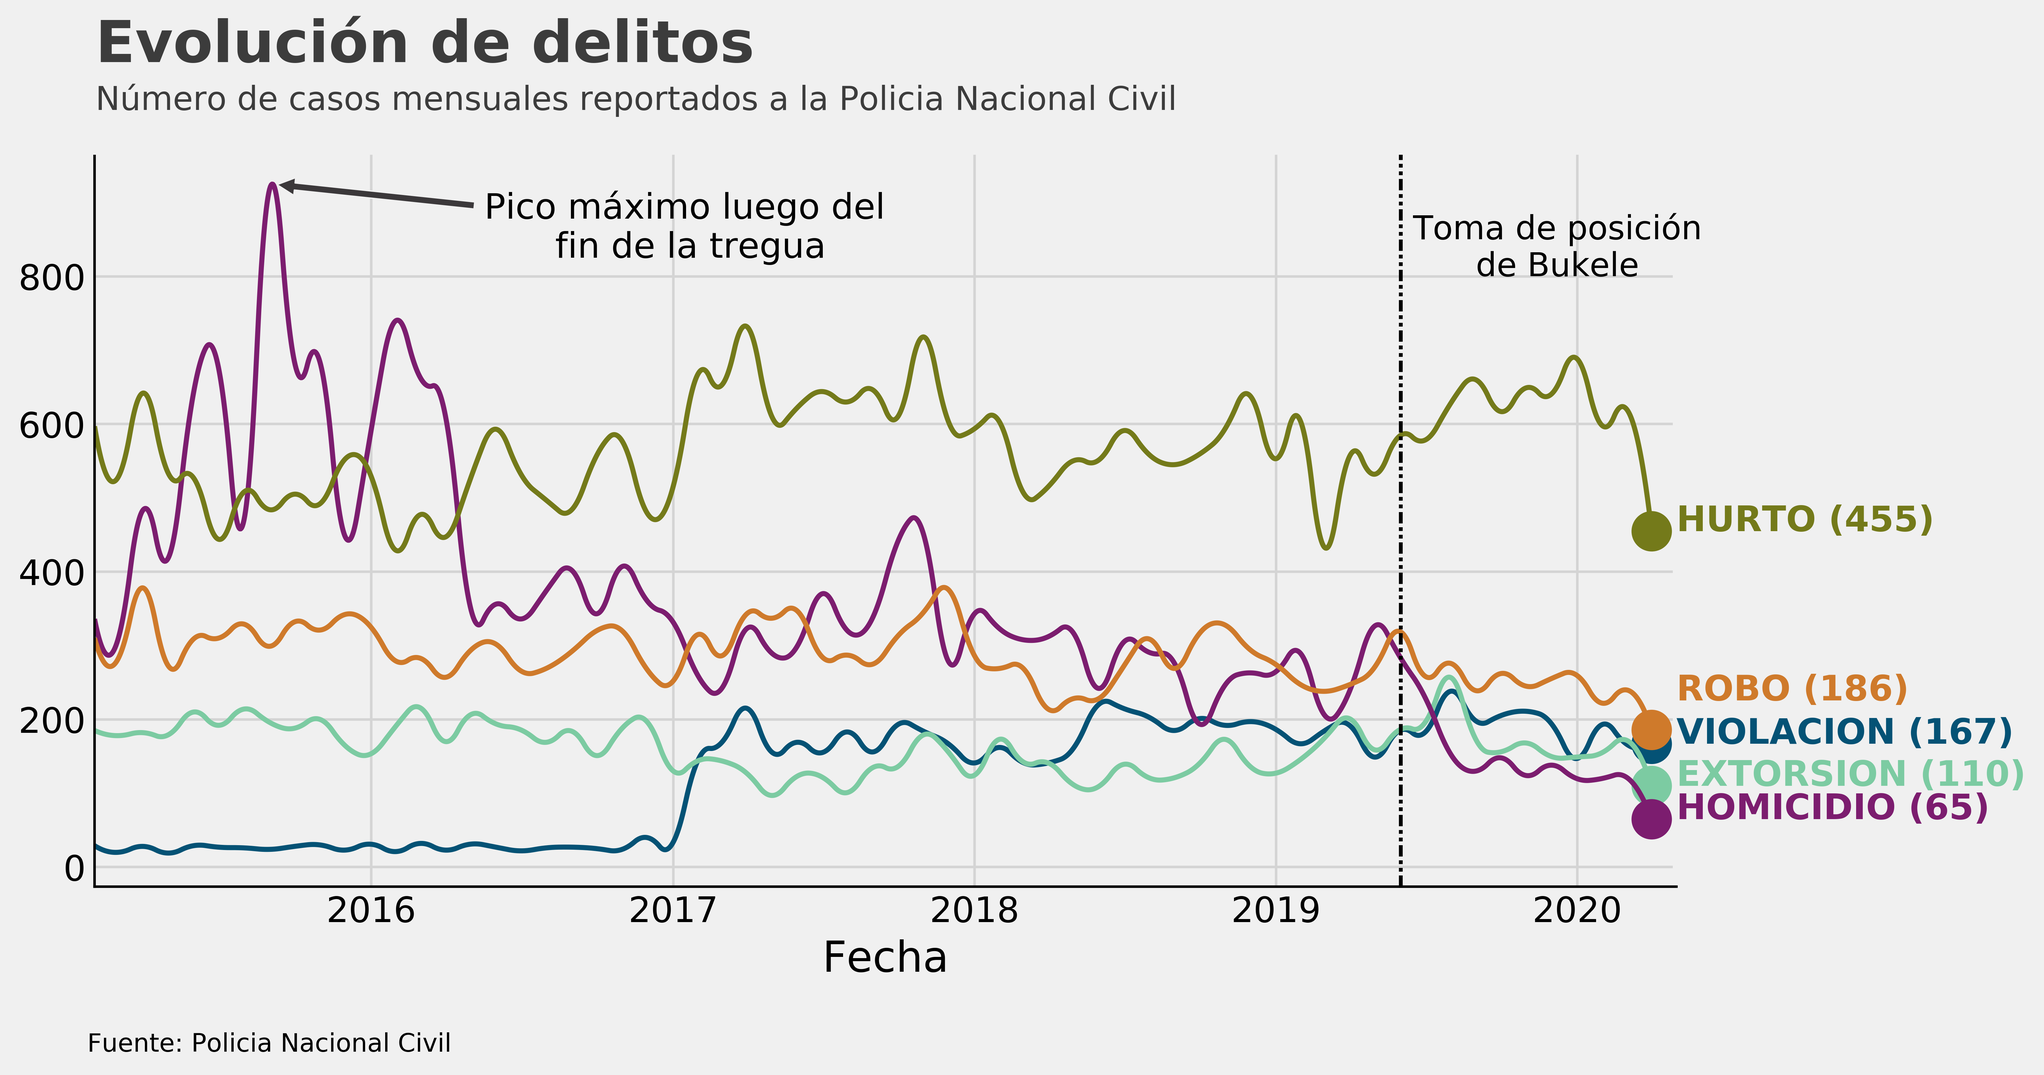
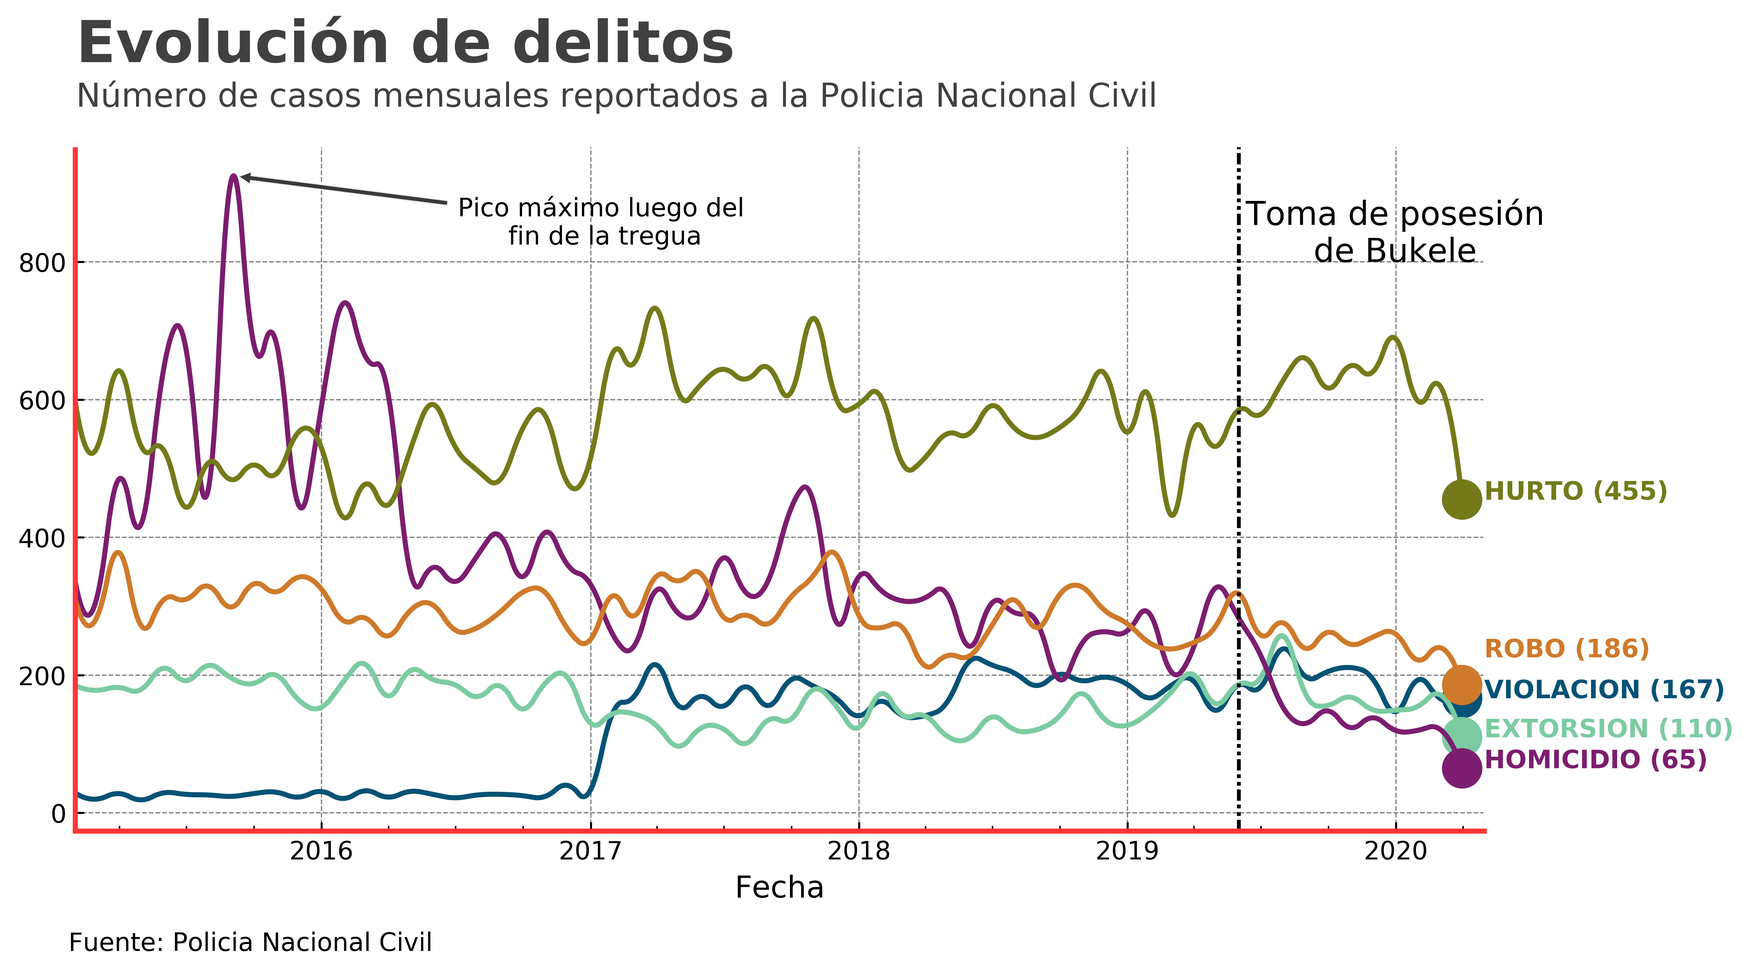
post_7_translated

Changed region(s): [[0.0, 0.1556, 0.9962, 0.9334], [0.0311, 0.0, 0.6538, 0.1245], [0.0311, 0.9645, 0.249, 0.9956]]

diff --git a/_layouts/distill_img_short.html b/_layouts/distill_img_short.html
@@ -1,0 +1,118 @@
+<!DOCTYPE html>
+<html>
+  <head>
+    {% include head.html %}
+    <script src="{{ '/assets/js/distillpub/template.v2.js' | relative_url }}"></script>
+    <script src="{{ '/assets/js/distillpub/transforms.v2.js' | relative_url }}"></script>
+    {% if page._styles %}
+    <style type="text/css">
+      {{ page._styles }}
+    </style>
+    {% endif %}
+
+    <script type='text/javascript' src='https://platform-api.sharethis.com/js/sharethis.js#property=5f1285fa133eda00126e4805&product=sticky-share-buttons&cms=sop' async='async'></script>
+
+  </head>
+
+  
+
+
+  <d-front-matter>
+    <script type="text/json">{
+      "title": "{{ page.title }}",
+      "description": "{{ page.description }}",
+      "published": "{{ page.date | date: "%B %-d, %Y" }}{% if page.author %} • {{ page.author }}{% endif %}{% if page.meta %} • {{ page.meta }}{% endif %}",
+      "authors": [
+        {% for author in page.authors %}
+        {
+          "author": "{{ author.name }}",
+          "authorURL": "{{ author.url }}",
+          "affiliations": [
+            {
+              "name": "{{ author.affiliations.name }}",
+              "url": "{{ author.affiliations.url }}"
+            }
+          ]
+        }{% if forloop.last == false %},{% endif %}
+        {% endfor %}
+      ],
+      "katex": {
+        "delimiters": [
+          {
+            "left": "$",
+            "right": "$",
+            "display": false
+          },
+          {
+            "left": "$$",
+            "right": "$$",
+            "display": true
+          }
+        ]
+      }
+    }</script>
+  </d-front-matter>
+
+  <body class="{% if site.navbar_fixed %}fixed-top-nav{% endif %} {% unless site.footer_fixed %}sticky-bottom-footer{% endunless %}">
+
+    <!-- Header -->
+
+    {% include header.html %}
+
+    <!-- Content -->
+    <d-article>
+        <p><img class="img-fluid" src="{{ site.baseurl }}{{ page.image }}"></p>
+    </d-article>
+    
+
+    <div class="post distill">
+      <div class="text-center">
+        <d-title>
+          <h1 style="font-family: 'Playfair Display SC', serif">{{ page.title }}</h1>
+          <p style = "font-style: italic">{{ page.description }}</p>
+        </d-title>
+      </div>
+
+      <d-byline></d-byline>
+
+      <d-article>
+        {{ content }}
+      </d-article>
+
+      <d-appendix>
+        <d-footnote-list></d-footnote-list>
+        <d-citation-list></d-citation-list>
+      </d-appendix>
+
+    </div>
+
+    <!-- Footer -->
+
+    {% include footer.html %}
+
+  </body>
+
+  {% include hemline.html %}
+
+  <d-bibliography src="{{ page.bibliography | prepend: '/assets/bibliography/' | relative_url }}">
+  </d-bibliography>
+
+  <body class="{% if site.navbar_fixed %}fixed-top-nav{% endif %} {% unless site.footer_fixed %}sticky-bottom-footer{% endunless %}">
+    <d-article>
+      {% if site.disqus_shortname and page.comments %}
+        <div id="disqus_thread"></div>
+        <script type="text/javascript">
+          var disqus_shortname  = '{{ site.disqus_shortname }}';
+          var disqus_identifier = '{{ page.id }}';
+          var disqus_title      = {{ page.title | jsonify }};
+          (function() {
+            var dsq = document.createElement('script'); dsq.type = 'text/javascript'; dsq.async = true;
+            dsq.src = '//' + disqus_shortname + '.disqus.com/embed.js';
+            (document.getElementsByTagName('head')[0] || document.getElementsByTagName('body')[0]).appendChild(dsq);
+          })();
+        </script>
+        <noscript>Please enable JavaScript to view the <a href="http://disqus.com/?ref_noscript">comments powered by Disqus.</a></noscript>
+      {% endif %}
+    </d-article>
+  </body>
+</html>

diff --git a/_sass/_layout.scss b/_sass/_layout.scss
@@ -28,6 +28,25 @@
   max-width: $max-content-width;
 }
 
+.first-word {
+  color: $text-color;
+  font-variant: small-caps;
+  font-weight: bold;
+  font-family:'Playfair Display SC';
+}
+
+.first-p::first-letter {
+  float: left;
+  font-size: 3.7em;
+  line-height: 0.5;
+  margin: 0.169em 0.07em 0 0;
+  color: $theme-color;
+  font-weight: bold;
+  text-transform: uppercase;
+  font-family:'Playfair Display SC';
+}
+
+
 // Profile
 .profile {
   

diff --git a/_sass/_variables.scss b/_sass/_variables.scss
@@ -29,7 +29,7 @@ $grey-color-light:    lighten($grey-color, 40%);
 $grey-color-dark:     darken($grey-color, 25%);
 
 /* Set theme colors *************************/
-$theme-color:         $blue-color;
+$theme-color:         $red-color;
 
 $link-color:          $theme-color;
 $text-color:          #111 !default;

diff --git a/_posts/2020-07-25-Es-Sostenible-la-caida-de-homicidios-en-El-Salvador.md b/_posts/2020-07-25-Es-Sostenible-la-caida-de-homicidios-en-El-Salvador.md
@@ -1,5 +1,5 @@
 ---
-layout: distill
+layout: distill_img_short
 title: "¿Es sostenible la caída de homicidios en El Salvador?"
 description: Desde el 2015, el número de homicidios en El Salvador ha caído, sin embargo, los datos muestran que la caída podría no ser sostenible en el tiempo ¿a qué se debe esto?
 date: 2020-07-25
@@ -12,28 +12,15 @@ authors:
 image: /assets/img/post_7/post_7.jpeg
 bibliography: 2020-07-25-es-sostenible-la-caida-de-homicidios.bib
 ---
-<div class="row mt-3">
-    <div class="col-sm mt-3 mt-md-0">
-        <img class="img-fluid rounded z-depth-1" src="{{ site.baseurl }}/assets/img/post_7/post_7.jpeg">
-    </div>
-</div>
+<p class="first-p"><span class="first-word">E</span>l Salvador en el año 2019 registró la tasa de homicidios más baja desde la guerra civil. La tasa de homicidios por cien mil habitantes en El Salvador ha caído a 35 luego de alcanzar más de 100 en el 2015. Esta tasa es la más baja de las últimas décadas, superando incluso las tasas de homicidios en los años de la tregua entre pandillas en 2014. De continuar con la misma trayectoria el país podría tener una tasa incluso más baja que países como México, Guatemala y Colombia<d-cite key="WDI"></d-cite>. </p>
 
+<img class="img-fluid" src="{{ site.baseurl }}/assets/img/post_7/homicidios_slv.png">
 
-<br/>
-<b>En el año 2019 El Salvador registró la tasa de homicidios más baja desde la guerra civil.</b> La tasa de homicidios por cien mil habitantes en El Salvador ha caído a 35 luego de alcanzar más de 100 en el 2015. Esta tasa es la más baja de las últimas décadas, superando incluso las tasas de homicidios en los años de la tregua entre pandillas en 2014. De continuar con la misma trayectoria el país podría tener una tasa incluso más baja que países como México, Guatemala y Colombia<d-cite key="WDI"></d-cite>. 
+<b>A pesar de la significativa caída en los homicidios los otros tipos de delitos no han disminuido.</b> La caída de homicidios que se viene registrando luego del pico en 2015 ha significado mayor seguridad para los salvadoreños. Sin embargo, los otros tipos de crímenes no marcan una tendencia a la baja. En el siguiente gráfico se puede observar claramente que algunos delitos como Hurtos, Robos y Extorsiones se mantienen en los mismo niveles en los últimos años e incluso con aumentos significativos para algunos meses, en cuanto delitos de Violaciones se han reportado de forma constante casi 200 casos mensuales desde el 2017<d-footnote>Se observa un incremento acelerado en los reportes de Violaciones en 2017 debido a un cambio en la forma de contabilizar los registros.</d-footnote>. En marzo del 2020 se registra una caída significativa que podría deberse a las medidas de confinamiento para combatir el COVID-19<d-cite key="PNC"></d-cite>.
 
-<img class="img-fluid rounded z-depth-1" src="{{ site.baseurl }}/assets/img/post_7/homicidios_slv.png">
-
-<b>A pesar de la significativa caída en los homicidios los otros tipos de delitos no han disminuido.</b> La caída de homicidios que se viene registrando luego del pico en 2015 ha significado mayor seguridad para los salvadoreños. Sin embargo, los otros tipos de crímenes no marcan una tendencia a la baja. En el siguiente gráfico se puede observar claramente que algunos delitos como Hurtos, Robos y Extorsiones se mantienen en los mismo niveles en los últimos años e incluso con aumentos significativos para algunos meses. También se logra identificar que luego del 2017 el registro de Violaciones aumentó de forma acelerada y todavía se registran cerca de 200 casos mensuales desde ese año. En marzo del 2020 se registra una caída significativa que podría deberse a las medidas de confinamiento para combatir el COVID-19<d-cite key="PNC"></d-cite>.
+<img class="img-fluid" src="{{ site.baseurl }}/assets/img/post_7/delitos.png">
 
 Esta tendencia podría indicar que las estructuras criminales se mantienen y que continúan realizando sus actividades para mantener sus ingresos de forma habitual. Si bien la caída en los homicidios es un aspecto positivo para los salvadoreños, las estructuras criminales continúan siendo un peligro latente en especial cuando las medidas que mantienen los homicidios bajos cesen o ya no funcionen. 
-
-<div class="row mt-3">
-    <div class="col-sm mt-3 mt-md-0">
-        <img class="img-fluid rounded z-depth-1" src="{{ site.baseurl }}/assets/img/post_7/delitos.png">
-    </div>
-</div>
-
 
 ### ¿La delincuencia es un problema de seguridad o un problema social?
 
@@ -45,10 +32,10 @@ Desde los gobiernos de Arena, la delincuencia se ha tratado como un problema de 
 
 <b>La inseguridad económica es otro factor que motiva a los jóvenes a ingresar a las pandillas.</b> La mayoría de los miembros están desempleados, el 70% proviene de hogares con ingresos familiares menores a $250<d-cite key="PANDILLAS"></d-cite>. El Salvador también mantienen una de las tasas más altas de jóvenes que no estudian ni trabajan (Ninis) de América Latina, 1 de cada 4 jóvenes se encuentra en esta condición y se ha mantenido constante durante la última década<d-cite key="EHPM"></d-cite>.
 
-<img class="img-fluid rounded z-depth-1" src="{{ site.baseurl }}/assets/img/post_7/ninis.png">
+<img class="img-fluid" src="{{ site.baseurl }}/assets/img/post_7/ninis.png">
 
 <b>Se espera una fuerte contracción económica que deje sin empleo a miles de salvadoreños.</b> Tan solo al mes de abril el nivel de trabajadores formales ha caído a niveles del 2016, el equivalente a retroceder 4 años en generación de empleo, una situación especialmente dura para los jóvenes tomando en cuenta la gran cantidad que ingresan al mercado laboral cada año<d-cite key="ISSS"></d-cite>. Además, más de un millón de estudiantes están fuera de la escuela, esto disminuirá los niveles de aprendizaje especialmente para los más vulnerables y podría motivar la deserción escolar de muchos estudiantes.
 
-<img class="img-fluid rounded z-depth-1" src="{{ site.baseurl }}/assets/img/post_7/empleo_iss.png">
+<img class="img-fluid" src="{{ site.baseurl }}/assets/img/post_7/empleo_iss.png">
 
 <b>La caída de homicidios es un avance importante pero aún siguen otros retos. </b>Para mantener la seguridad de los salvadoreños y sobre todo para resolver de raíz las causas principales de las pandillas se deben crear políticas sociales que permita la incorporación de jóvenes al mercado laboral y que más estudiantes puedan terminar sus estudios. El presupuesto de educación se ha mantenido bajo si se compara con el resto de la región y los esfuerzos en generar oportunidades laborales para los más jóvenes no ha dado resultados. El nuevo gobierno debe propiciar oportunidades para los más vulnerables, para que la caída en los niveles de criminalidad sea sostenida a través del tiempo. La pandemia del COVID-19 por su parte deja otros retos importantes que podrían hacer retroceder los avances ya alcanzados, que podría motivar a que jóvenes sin empleo continúen realizando actos delictivos. En momentos difíciles se debe proteger a los más necesitados.

diff --git a/_posts/2020-07-25-Will-homicides-remain-low-in-El-Salvador.md b/_posts/2020-07-25-Will-homicides-remain-low-in-El-Salvador.md
@@ -1,0 +1,41 @@
+---
+layout: distill_img_short
+title: "Will homicides remain low in El Salvador?"
+description: Since 2015, the number of homicides in El Salvador has fallen. However, the data shows that the fall may not be sustainable over time, why is this?
+date: 2020-07-28
+comments: true
+
+authors:
+  - name: Eleno Castro
+    url: https://twitter.com/ElenoCastro
+
+image: /assets/img/post_7/post_7.jpeg
+bibliography: 2020-07-25-es-sostenible-la-caida-de-homicidios.bib
+---
+<p class="first-p"><span class="first-word">I</span>In 2019 El Salvador registered the lowest homicide rate since the civil war. The homicide rate per 100,000 residents in El Salvador has dropped to 35 after reaching more than 100 in 2015. This rate is the lowest in recent decades, even surpassing homicide rates in the years of the gang truce in 2014. If it continues with the same trajectory, the country could have an even lower rate than countries like Mexico, Guatemala and Colombia.<d-cite key="WDI"></d-cite>.</p>
+
+<img class="img-fluid" src="{{ site.baseurl }}/assets/img/post_7/homicidios_slv_eng.png">
+
+<b>Despite the significant drop in homicides, the other types of crime have not decreased.</b> The drop in homicides that has been registered after the peak in 2015 has meant greater security for Salvadorans. However, the other types of crimes do not mark a downward trend. In the following graph it can be clearly seen that some crimes such as Thefts, Robberies and Extortions have remained at the same level in recent years and even with significant increases for some months. For Violation crimes, almost 200 cases have been consistently reported monthly since 2017 <d-footnote> There is an accelerated increase in Violation reports in 2017 due to a change in the way of accounting for records. </d-footnote>. In March 2020 there was a significant drop that could be due to the containment measures to combat COVID-19.<d-cite key="PNC"></d-cite>.
+
+<img class="img-fluid" src="{{ site.baseurl }}/assets/img/post_7/delitos_eng.png">
+
+This trend could indicate that criminal structures are maintained and that they continue to carry out their activities to maintain their income on a regular basis. Although the drop in homicides is a positive aspect for Salvadorans, criminal structures continue to be a latent danger, especially when measures that keep homicides low cease or no longer work.
+
+### Is crime a security problem or a social problem?
+
+Since the Arena governments, crime has been treated as a security problem in which the goal is to bring peace to Salvadorans and companies. Governments have seriously focused on using brute force to decrease crimes, especially homicides. The plan implemented by the current government - territorial control - seems to be a similar strategy, in which the armed forces and the national civil police are responsible for maintaining harmony in the communities and on the streets. The current government attributes all the success in the fall in homicides to this strategy.
+
+<b>Crime is also a social problem.</b> Brute force has a very serious problem and that is that it does not attend to the structural problems of crime, which is rooted in multiple social problems. In particular, there are two problems that mainly affect the country's children and youth: the poor educational system and the lack of job opportunities.
+
+<b>The expulsion of young people from the educational system maintains criminal structures.</b> In El Salvador, only 2 out of 10 Salvadorans living in poverty finish high school, and those who remain in school do not achieve the minimum learning according to national tests - PAES<d-cite key="CIMA10"></d-cite>. The expulsion of young people in poverty from the educational system causes many teenagers to join criminal structures. Almost 87% of the gang members entered the gang before the age of 17 and 60% before the age of 15. In addition, 94% of them did not finish school and only 22% studied any grade of high school<d-cite key="PANDILLAS"></d-cite>. It is not surprising that the average schooling of gang members has remained the same in the last 10 years <d-cite key='CRUZCARRA'></d-cite>.
+
+<b>Economic insecurity is another factor that motivates young people to join gangs.</b> Most of the members are unemployed, 70% come from households with a family income of less than $250<d-cite key="PANDILLAS"></d-cite>. El Salvador also maintain one of the highest rates of youth who neither study nor work in Latin America, 1 in 4 youth is in this condition and has remained constant for the last decade<d-cite key="EHPM"></d-cite>.
+
+<img class="img-fluid" src="{{ site.baseurl }}/assets/img/post_7/ninis_eng.png">
+
+<b>A strong economic contraction is expected to leave thousands of Salvadorans without jobs due to the COVID crisis.</b> Just in the month of April, the level of formal workers has fallen to 2016 levels, the equivalent of going back 4 years in job creation, a particularly difficult situation for young people, taking into account the large number that enter the labor market each year<d-cite key="ISSS"></d-cite>. Furthermore, more than a million students are out of school, this will lower learning levels especially for the most vulnerable and could motivate many students to drop out of school.
+
+<img class="img-fluid" src="{{ site.baseurl }}/assets/img/post_7/empleo_iss_eng.png">
+
+<b>The drop in homicides is an important advance, but other challenges remain.</b> To maintain the safety of Salvadorans and above all to resolve the root causes of gangs, social policies must be created that allow the incorporation of young people into the labor market and that more students can finish their studies. The education budget has remained low compared to the rest of the region, and efforts to create job opportunities for the youngest have not yielded results. The new government must provide opportunities for the most vulnerable, so that the drop in crime levels is sustained over time. The COVID-19 pandemic, for its part, leaves other important challenges that could reverse the progress already made, which could motivate young people without jobs to continue carrying out criminal acts. In difficult times, those most in need should be protected.

diff --git a/_posts/2020-07-14-Una mirada al desarrollo en El Salvador.md b/_posts/2020-07-14-Una mirada al desarrollo en El Salvador.md
@@ -1,5 +1,5 @@
 ---
-layout: distill_img
+layout: distill_img_big
 title: "Desarrollo social en El Salvador: una mirada municipal"
 description: A contrario de lo que muchos opinan El Salvador ha tenido avances en los últimos años sin embargo el desarrollo ha sido heterogéneo entre los municipios.
 date: 2020-07-14
@@ -13,7 +13,7 @@ image: /assets/img/post_5.jpg
 bibliography: 2020-07-14-Una-mirada-al-desarrollo-en-El-Salvador.bib
 ---
 
-Pesé al gran pesimismo que maneja la gente de El Salvador debido a los problemas de corrupción y la poca credibilidad de las instituciones públicas, el país ha tenido avances en términos de desarrollo social en los últimos años. 
+<p class="first-p"><span class="first-word">P</span>ese al gran pesimismo que maneja la gente de El Salvador debido a los problemas de corrupción y la poca credibilidad de las instituciones públicas, el país ha tenido avances en términos de desarrollo social en los últimos años.</p> 
 
 Esto es algo que debemos de destacar y mencionar, sobre todo para desmentir aquellas personas que aseguran que estamos peor que nunca. No hay duda de que aún falta mucho camino por recorrer y que hay retos que no se atendieron de la mejor forma durante los últimos años, pero si podemos destacar algunos avances.
 

diff --git a/_posts/2020-07-16-Social development in El Salvador a municipal look.md b/_posts/2020-07-16-Social development in El Salvador a municipal look.md
@@ -1,5 +1,5 @@
 ---
-layout: distill_img
+layout: distill_img_big
 title: "Social development in El Salvador: a municipal look"
 description: Contrary to what many think El Salvador has made progress in recent years, however, development has been heterogeneous among the municipalities.
 date: 2020-07-16
@@ -13,7 +13,7 @@ image: /assets/img/post_5.jpg
 bibliography: 2020-07-14-Una-mirada-al-desarrollo-en-El-Salvador.bib
 ---
 
-Despite the great pessimism that people in El Salvador handle due to corruption problems and the lack of credibility of public institutions, the country has made progress in terms of social development in recent years.
+<p class="first-p"><span class="first-word">D</span>espite the great pessimism that people in El Salvador handle due to corruption problems and the lack of credibility of public institutions, the country has made progress in terms of social development in recent years.</p>
 
 This is something that we must highlight and mention, especially to deny those people who assure us that we are worse than ever. There is no doubt that there is still a long way to go and that there are challenges that have not been met in the best way in recent years, but we can highlight some progress.
 

diff --git a/_posts/2020-07-04-Como-hacer-un-mapa-con-python.md b/_posts/2020-07-04-Como-hacer-un-mapa-con-python.md
@@ -12,13 +12,8 @@ authors:
 image: /assets/img/post_3/mapa_4.png
 
 ---
-<div class="row mt-3">
-    <div class="col-sm mt-3 mt-md-0">
-        <img class="img-fluid rounded z-depth-1" src="{{ site.baseurl }}/assets/img/post_3/python_logo.png">
-    </div>
-</div>
 
-Python es un lenguaje muy versatil que permite manejar datos y hacer visualizaciones de todo tipo. Si eres nuevo te recomiendo descargar el paquete de [Anaconda](https://www.anaconda.com/products/individual) y utilizar Jupyter como procesador de texto para ir viendo las gráficas a medida vas escribiendo el código.
+<p class="first-p"><span class="first-word">P</span> ython es un lenguaje muy versatil que permite manejar datos y hacer visualizaciones de todo tipo. Si eres nuevo te recomiendo descargar el paquete de <a href="https://www.anaconda.com/products/individual" target="blank">Anaconda</a> y utilizar Jupyter como procesador de texto para ir viendo las gráficas a medida vas escribiendo el código.</p>
 
 
 ## Preparando las librerías y las datos a utilizar
